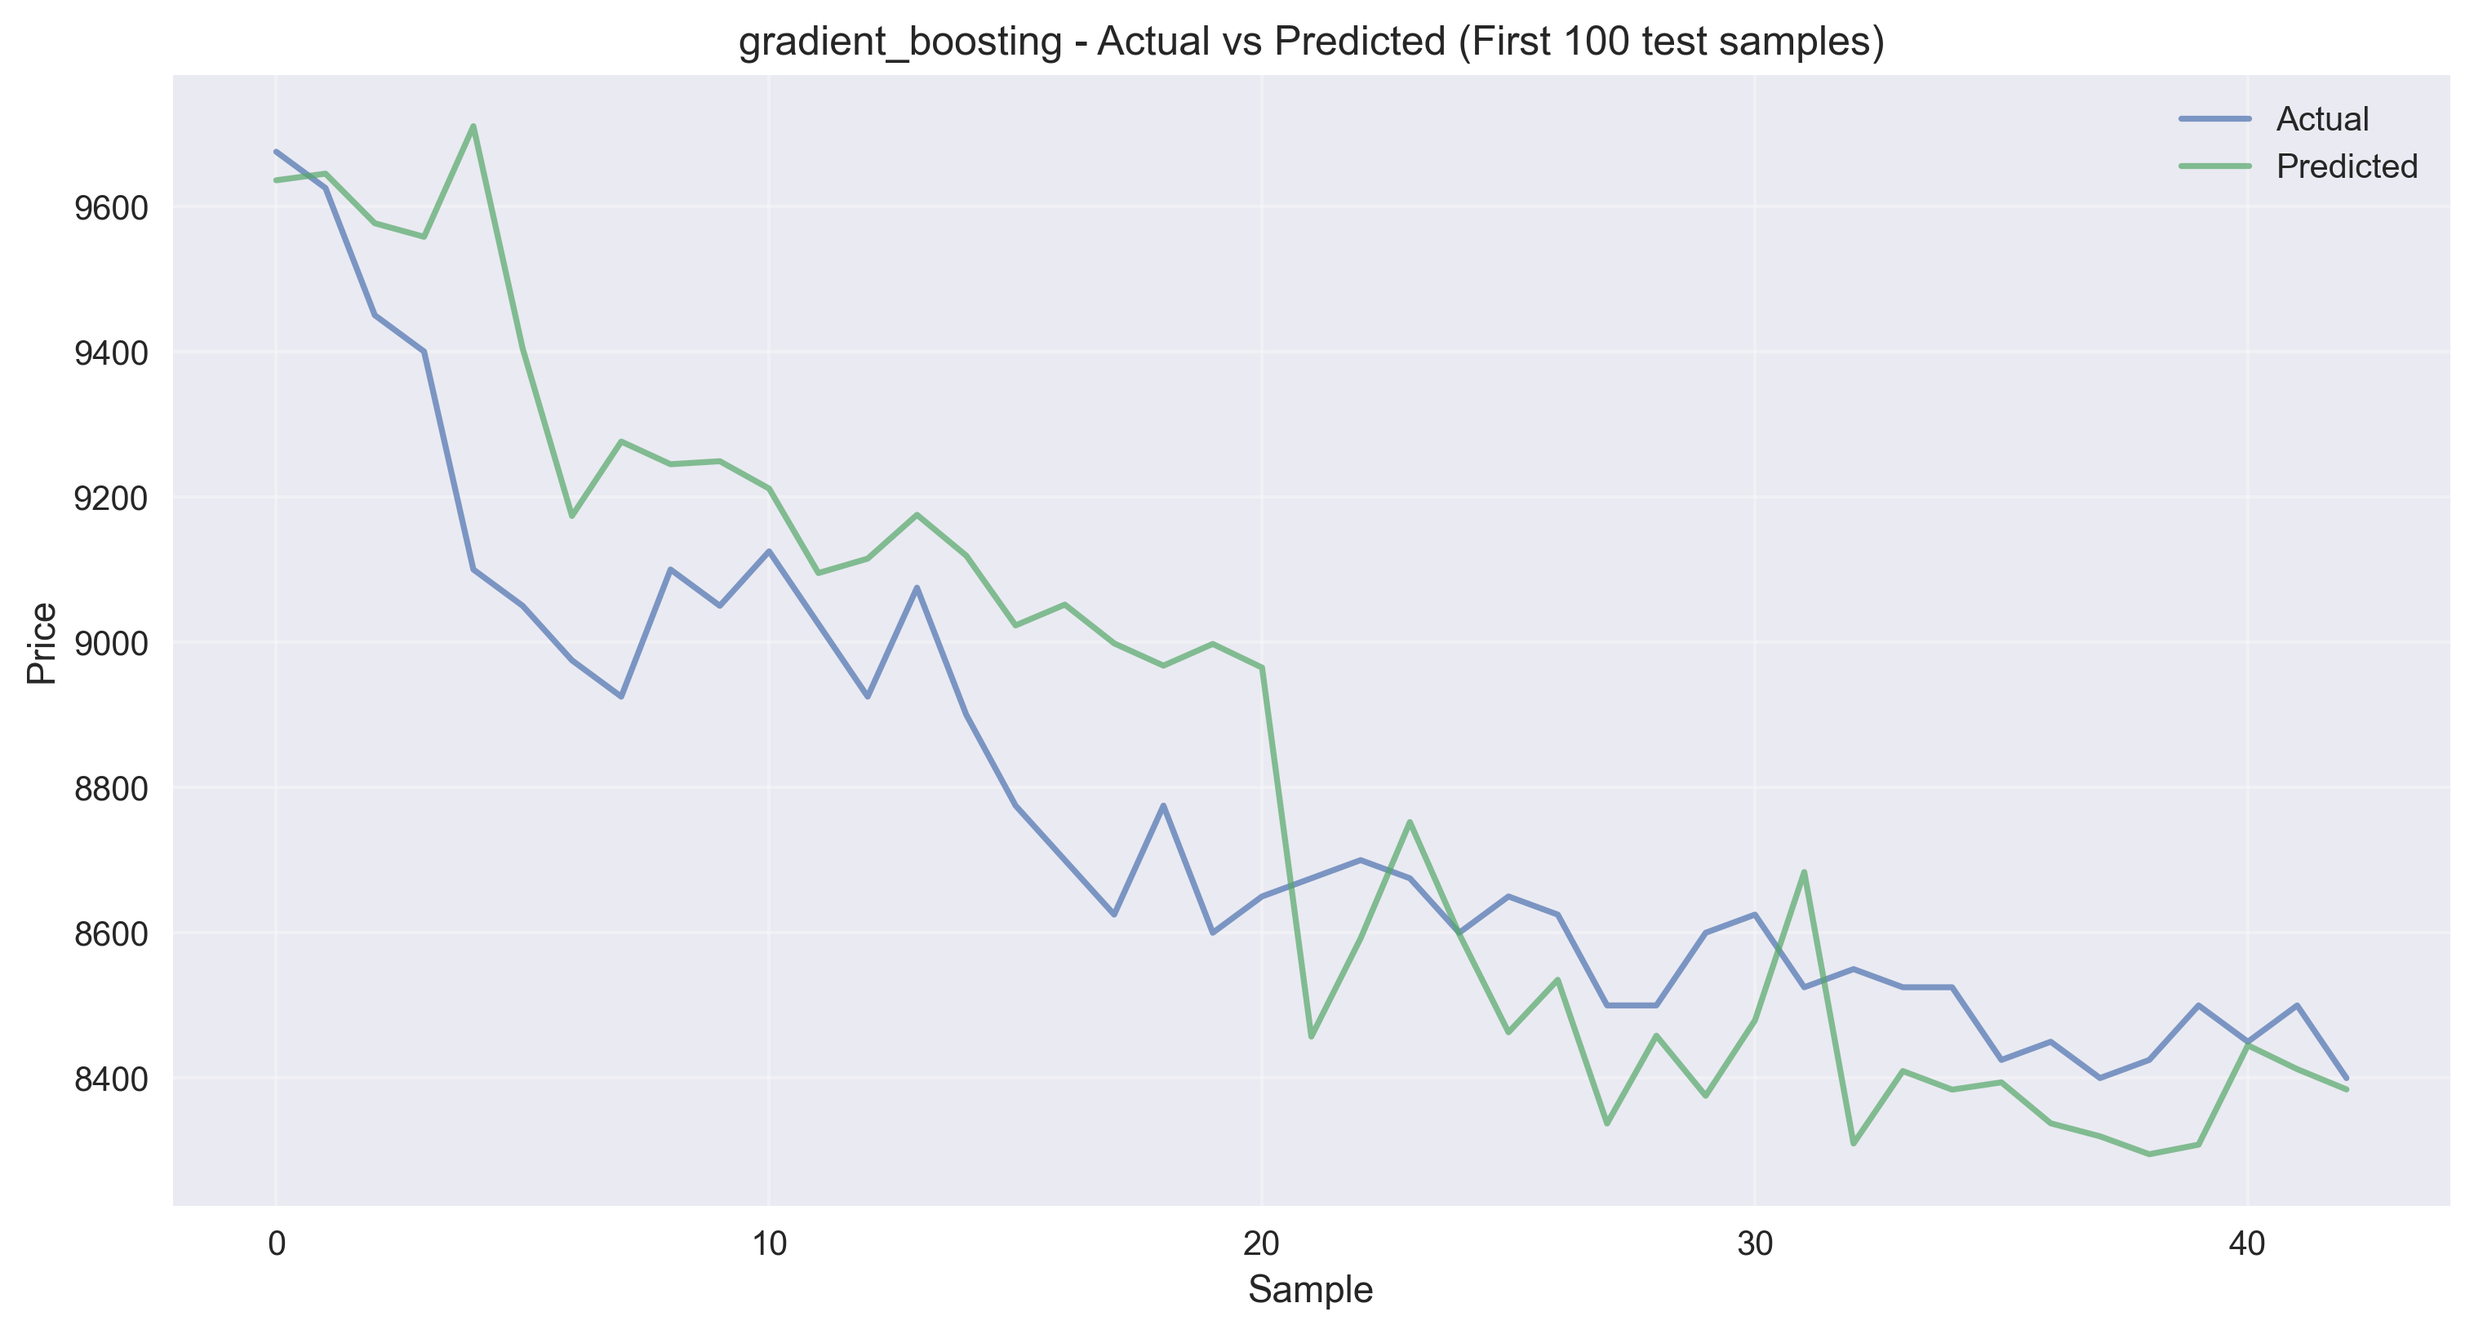
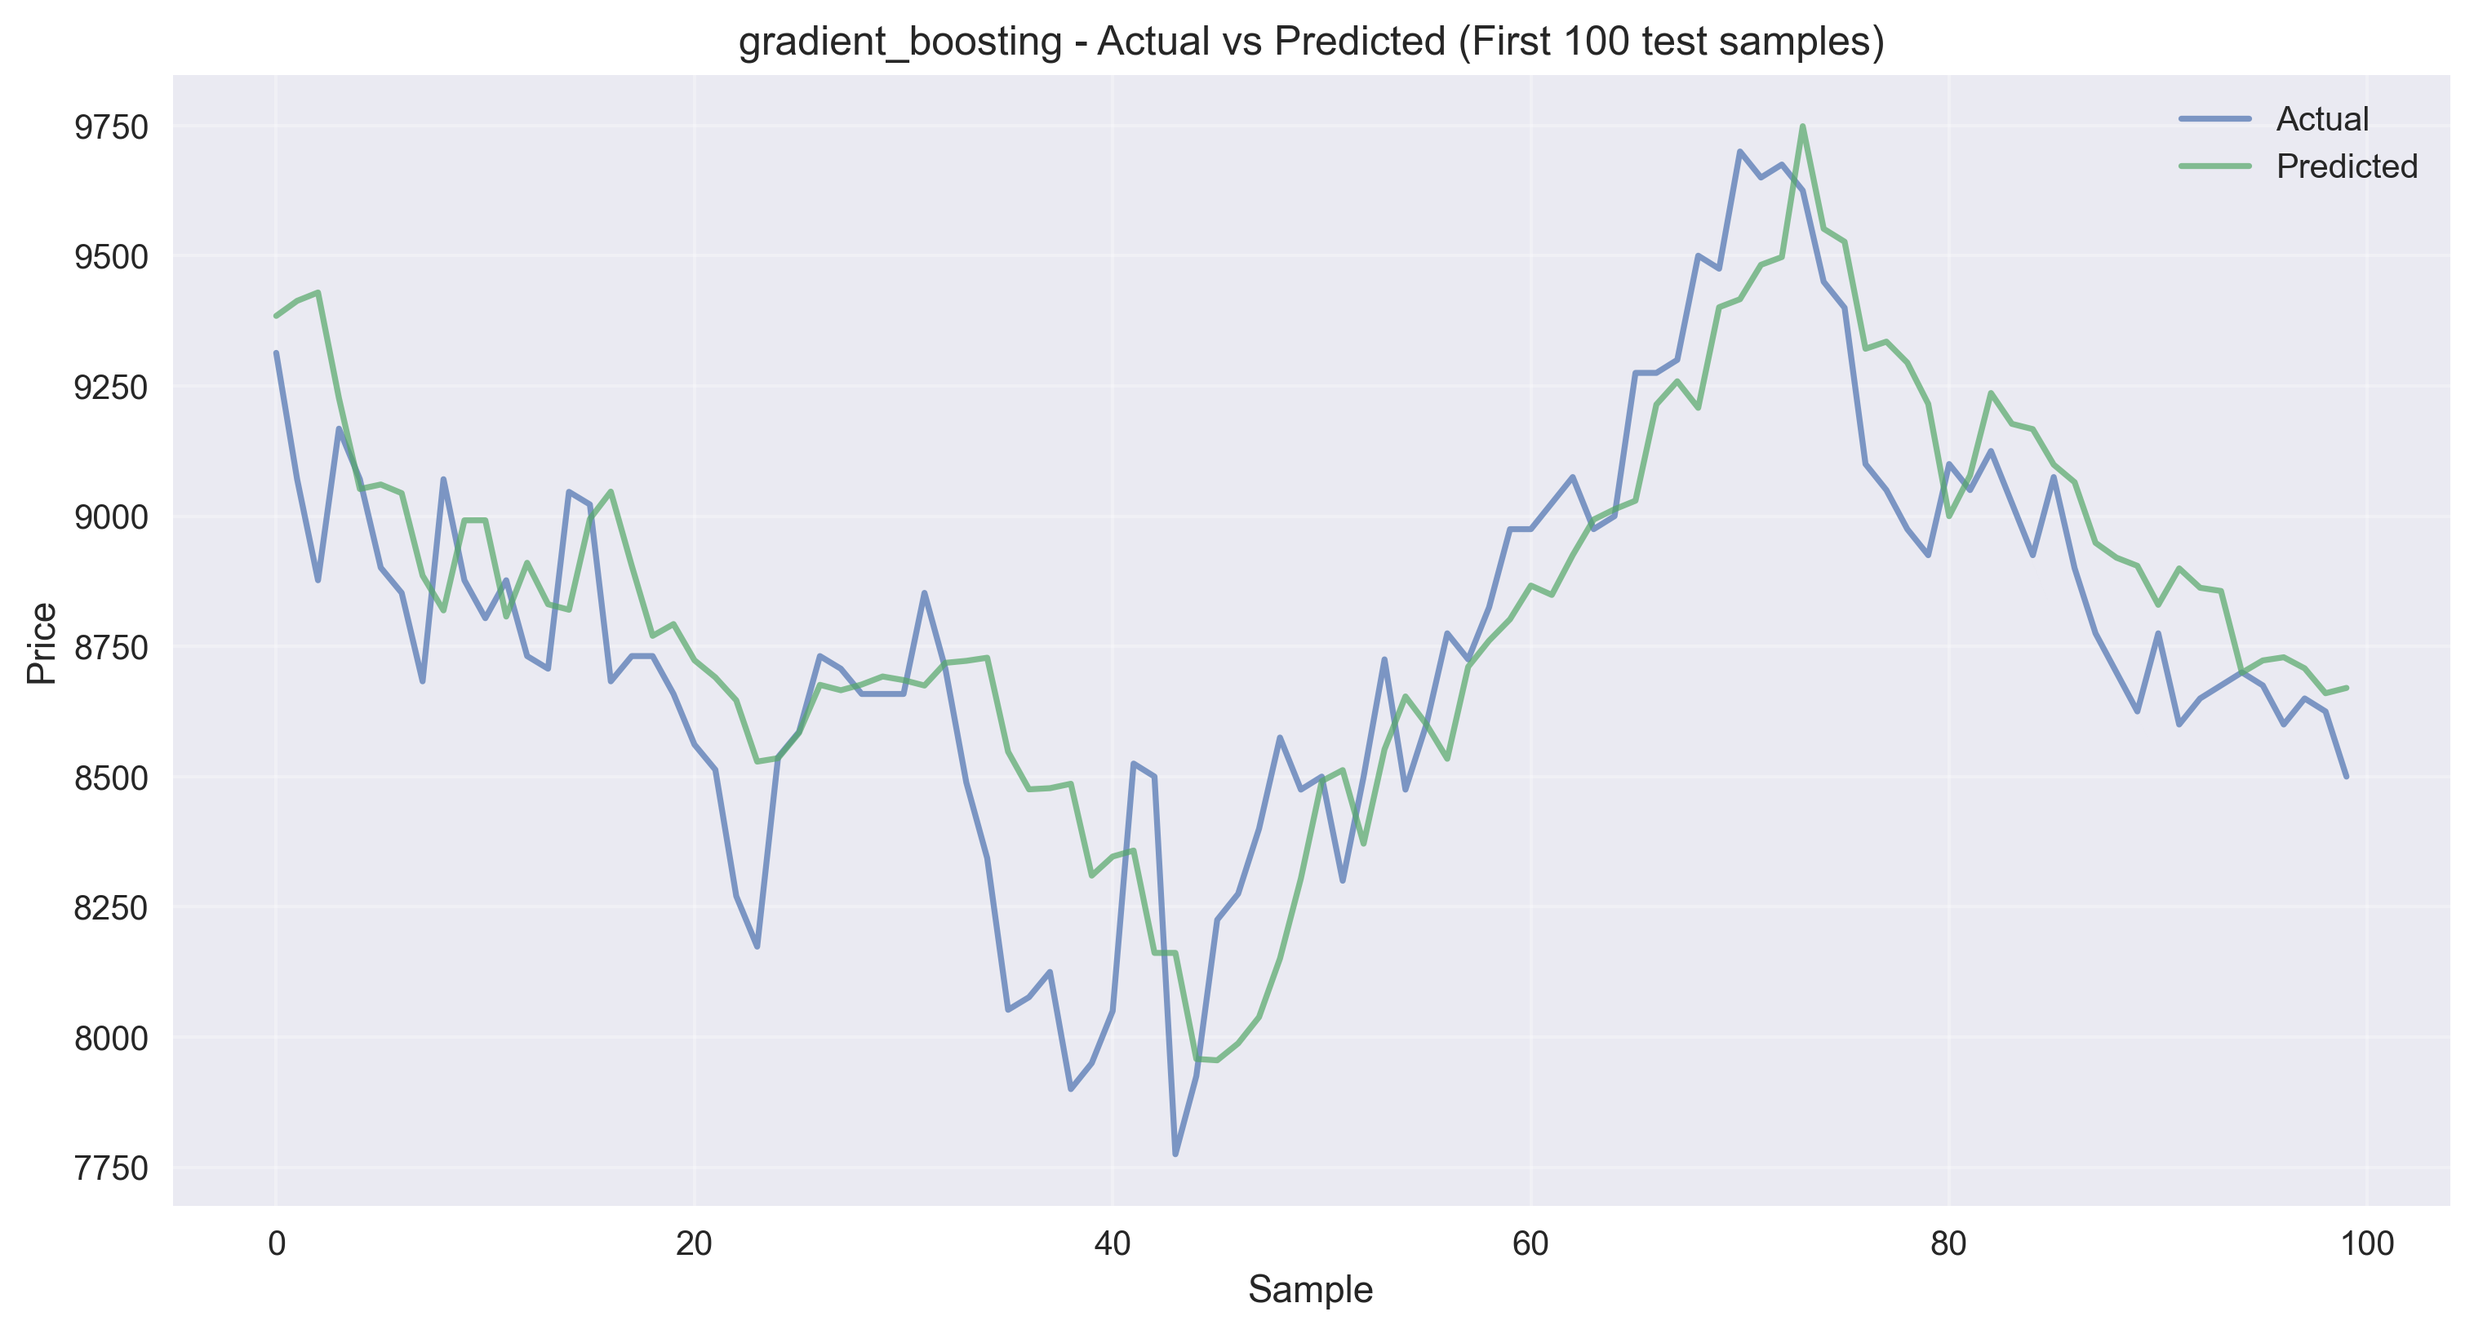
finishing up and adding snapshots

diff --git a/main.py b/main.py
@@ -178,25 +178,25 @@ class StockPriceRegressor:
         if TALIB_AVAILABLE:
             try:
                 # RSI
-                df['RSI'] = talib.RSI(df['Close'].values, timeperiod=14)
+                df['RSI'] = talib.RSI(df['Close'].values, timeperiod=14) # type: ignore
                 
                 # MACD
-                macd, macd_signal, macd_hist = talib.MACD(df['Close'].values)
+                macd, macd_signal, macd_hist = talib.MACD(df['Close'].values) # type: ignore
                 df['MACD'] = macd
                 df['MACD_Signal'] = macd_signal
                 df['MACD_Hist'] = macd_hist
                 
                 # Bollinger Bands
-                bb_upper, bb_middle, bb_lower = talib.BBANDS(df['Close'].values)
+                bb_upper, bb_middle, bb_lower = talib.BBANDS(df['Close'].values) # type: ignore
                 df['BB_Upper'] = bb_upper
                 df['BB_Lower'] = bb_lower
                 df['BB_Width'] = (bb_upper - bb_lower) / bb_middle
                 df['BB_Position'] = (df['Close'] - bb_lower) / (bb_upper - bb_lower)
                 
                 # Stochastic Oscillator
-                df['Stoch_K'], df['Stoch_D'] = talib.STOCH(df['High'].values, 
-                                                          df['Low'].values, 
-                                                          df['Close'].values)
+                df['Stoch_K'], df['Stoch_D'] = talib.STOCH(df['High'].values,  # type: ignore
+                                                          df['Low'].values,  # type: ignore
+                                                          df['Close'].values) # type: ignore
                 print("TA-Lib indicators added successfully")
             except Exception as e:
                 print(f"Error with TA-Lib indicators: {e}")
@@ -206,8 +206,8 @@ class StockPriceRegressor:
             
             # Simple RSI calculation
             delta = df['Close'].diff()
-            gain = (delta.where(delta > 0, 0)).rolling(window=14).mean()
-            loss = (-delta.where(delta < 0, 0)).rolling(window=14).mean()
+            gain = (delta.where(delta > 0, 0)).rolling(window=14).mean() # type: ignore
+            loss = (-delta.where(delta < 0, 0)).rolling(window=14).mean() # type: ignore
             rs = gain / loss
             df['RSI'] = 100 - (100 / (1 + rs))
             
@@ -408,16 +408,16 @@ class StockPriceRegressor:
                 
                 # Log model with appropriate MLflow integration
                 if model_name == 'xgboost' and XGB_AVAILABLE:
-                    mlflow.xgboost.log_model(model, name="model",signature=self.signature)
+                    mlflow.xgboost.log_model(model, name="model",signature=self.signature) # type: ignore
                 elif model_name == 'lightgbm' and LGB_AVAILABLE:
-                    mlflow.lightgbm.log_model(model, name="model",signature=self.signature)
+                    mlflow.lightgbm.log_model(model, name="model",signature=self.signature) # type: ignore
                 else:
-                    mlflow.sklearn.log_model(model, name="model",signature=self.signature)
+                    mlflow.sklearn.log_model(model, name="model",signature=self.signature) # type: ignore
                 
                 # Create and log prediction plot
                 os.makedirs('regressor_image', exist_ok=True)
                 plt.figure(figsize=(12, 6))
-                plt.plot(y_test.values[:100], label='Actual', alpha=0.7)
+                plt.plot(y_test.values[:100], label='Actual', alpha=0.7) # type: ignore
                 plt.plot(y_pred[:100], label='Predicted', alpha=0.7)
                 plt.title(f'{model_name} - Actual vs Predicted (First 100 test samples)')
                 plt.xlabel('Sample')
@@ -454,11 +454,11 @@ class StockPriceRegressor:
             
             best_model_obj = self.models[best_model]['model']
             if best_model == 'xgboost' and XGB_AVAILABLE:
-                mlflow.xgboost.log_model(best_model_obj, name="best_model", registered_model_name=f"{self.stock_symbol}_regressor",signature=self.signature)
+                mlflow.xgboost.log_model(best_model_obj, name="best_model", registered_model_name=f"{self.stock_symbol}_regressor",signature=self.signature) # type: ignore
             elif best_model == 'lightgbm' and LGB_AVAILABLE:
-                mlflow.lightgbm.log_model(best_model_obj, name="best_model", registered_model_name=f"{self.stock_symbol}_regressor",signature=self.signature)
+                mlflow.lightgbm.log_model(best_model_obj, name="best_model", registered_model_name=f"{self.stock_symbol}_regressor",signature=self.signature) # type: ignore
             else:
-                mlflow.sklearn.log_model(best_model_obj, name="best_model", registered_model_name=f"{self.stock_symbol}_regressor",signature=self.signature)
+                mlflow.sklearn.log_model(best_model_obj, name="best_model", registered_model_name=f"{self.stock_symbol}_regressor",signature=self.signature) # type: ignore
         
         return self.models, best_model
     
@@ -479,16 +479,16 @@ class StockPriceRegressor:
         model = self.models[model_name]['model']
         
         # Get the latest features
-        latest_features = self.features.iloc[-1:].copy()
+        latest_features = self.features.iloc[-1:].copy() # type: ignore
         
         #scaled the input
         latest_features_scaled = self.scaler.transform(latest_features)
         forecast = model.predict(latest_features_scaled)[0]
         
         #forecast tomorrow's price
-        current_price = self.data['Close'].iloc[-1]
-        today = self.data.iloc[-1].name.strftime('%Y-%m-%d')
-        forecast_date = (self.data.index[-1] + timedelta(days=1)).strftime('%Y-%m-%d')
+        current_price = self.data['Close'].iloc[-1] # type: ignore
+        today = self.data.iloc[-1].name.strftime('%Y-%m-%d') # type: ignore
+        forecast_date = (self.data.index[-1] + timedelta(days=1)).strftime('%Y-%m-%d') # type: ignore
         print(f"\n=== Forecast Results ===")
         print(f"Model used: {model_name}")
         print(f"Current price at {today}: {current_price:.2f}")
@@ -507,9 +507,9 @@ class StockPriceRegressor:
         print("="*60)
         
         print(f"\nData Summary:")
-        print(f"- Period: {self.data.index[0].date()} to {self.data.index[-1].date()}")
-        print(f"- Total samples: {len(self.data)}")
-        print(f"- Features used: {len(self.features.columns)}")
+        print(f"- Period: {self.data.index[0].date()} to {self.data.index[-1].date()}") # type: ignore
+        print(f"- Total samples: {len(self.data)}") # type: ignore
+        print(f"- Features used: {len(self.features.columns)}")# type: ignore
         
         print(f"\nModel Performance:")
         for model_name, results in self.models.items():
@@ -538,9 +538,9 @@ def run_regression():
     try:
         print("🎯 RUNNING REGRESSION PIPELINE")
         print("="*50)
-        
-        regressor = StockPriceRegressor(STOCK_SYMBOL, "stock_regression_forecasting")
-        regressor.load_data(period="2y",interval='1d')
+        today = datetime.now().strftime('%Y-%m-%d')
+        regressor = StockPriceRegressor(STOCK_SYMBOL, f"[{today}] stock_regression_forecasting")
+        regressor.load_data(period="5y",interval='1d')
         regressor.explore_data()
         regressor.engineer_features()
         regressor.train_models()

diff --git a/sample_run_results/console_report.md b/sample_run_results/console_report.md
@@ -1,0 +1,121 @@
+```bash
+🎯 RUNNING REGRESSION PIPELINE
+==================================================
+2025/07/29 18:31:55 INFO mlflow.tracking.fluent: Experiment with name '[2025-07-29] stock_regression_forecasting' does not exist. Creating a new experiment.
+Loading data for BBCA.JK...
+Data loaded successfully. Shape: (1200, 7)
+Date range: 2020-07-29 to 2025-07-29
+
+=== Data Exploration ===
+Data shape: (1200, 7)
+Missing values:
+Open            0
+High            0
+Low             0
+Close           0
+Volume          0
+Dividends       0
+Stock Splits    0
+dtype: int64
+
+Data types:
+Open            float64
+High            float64
+Low             float64
+Close           float64
+Volume            int64
+Dividends       float64
+Stock Splits    float64
+dtype: object
+
+Basic statistics:
+               Open          High           Low         Close        Volume    Dividends  Stock Splits
+count   1200.000000   1200.000000   1200.000000   1200.000000  1.200000e+03  1200.000000   1200.000000
+mean    7715.036679   7782.369203   7646.521941   7713.462568  8.837748e+07     0.855000      0.004167
+std     1450.905496   1460.669066   1446.464010   1452.523646  5.935710e+07    11.931287      0.144338
+min     4806.284981   4899.224194   4770.879567   4797.433105  1.065390e+07     0.000000      0.000000
+25%     6571.382128   6639.128476   6511.595372   6571.382324  5.702390e+07     0.000000      0.000000
+50%     7941.094616   8010.148217   7872.042878   7971.554932  7.626740e+07     0.000000      0.000000
+75%     8799.237718   8876.866162   8707.878660   8798.982422  1.017658e+08     0.000000      0.000000
+max    10522.147296  10570.414456  10401.480891  10570.414062  7.564316e+08   250.000000      5.000000
+
+=== Feature Engineering ===
+TA-Lib indicators added successfully
+Features created: 42
+Final dataset shape: (1150, 48)
+Feature columns: ['Dividends', 'Stock Splits', 'High_Low_Pct', 'Price_Change', 'MA_5', 'MA_5_ratio', 'MA_10', 'MA_10_ratio', 'MA_20', 'MA_20_ratio']...
+
+=== Training Models ===
+Training set size: 1035
+Test set size: 115
+
+=== Creating Baseline Model(s) ===
+Moving average RMSE: 205.7659
+
+Training linear_regression...
+linear_regression - RMSE: 164.6530, MAE: 125.8647, R²: 0.8146
+
+Training random_forest...
+random_forest - RMSE: 213.5445, MAE: 168.3006, R²: 0.6881
+
+Training gradient_boosting...
+gradient_boosting - RMSE: 207.0558, MAE: 161.6780, R²: 0.7068
+
+Training xgboost...
+xgboost - RMSE: 227.3087, MAE: 180.3070, R²: 0.6466
+
+Training lightgbm...
+lightgbm - RMSE: 213.5368, MAE: 166.5430, R²: 0.6881
+
+Best model: linear_regression (RMSE: 164.6530)
+Successfully registered model 'BBCA.JK_regressor'.
+Created version '1' of model 'BBCA.JK_regressor'.
+
+============================================================
+STOCK PRICE FORECASTING REPORT - BBCA.JK
+============================================================
+
+Data Summary:
+- Period: 2020-07-29 to 2025-07-29
+- Total samples: 1200
+- Features used: 42
+
+Model Performance:
+- LINEAR_REGRESSION:
+  * RMSE: 164.6530
+  * MAE: 125.8647
+  * R²: 0.8146
+- RANDOM_FOREST:
+  * RMSE: 213.5445
+  * MAE: 168.3006
+  * R²: 0.6881
+- GRADIENT_BOOSTING:
+  * RMSE: 207.0558
+  * MAE: 161.6780
+  * R²: 0.7068
+- XGBOOST:
+  * RMSE: 227.3087
+  * MAE: 180.3070
+  * R²: 0.6466
+- LIGHTGBM:
+  * RMSE: 213.5368
+  * MAE: 166.5430
+  * R²: 0.6881
+
+Best Model: LINEAR_REGRESSION
+RMSE: 164.6530
+
+=== Forecast Results ===
+Model used: linear_regression
+Current price at 2025-07-29: 8400.00
+Predicted next day price at 2025-07-30: 8474.33
+Predicted change: 74.33 (0.88%)
+
+================================================================================
+✅ Regression pipeline completed!
+================================================================================
+🌐 Check MLflow UI for detailed experiment tracking:
+   Run: mlflow server --host 127.0.0.1 --port 8080
+   Then visit: http://localhost:8080
+================================================================================
+```

diff --git a/readme.md b/readme.md
@@ -17,7 +17,6 @@ Develop a machine learning model to forecast the closing price of Indonesian sto
 
 ## 3. Quick Start
 
-
 ### 3.1 Installation
 
 ```bash
@@ -54,7 +53,7 @@ pip install TA-Lib
 
 ```bash
 # The script will automatically detect available packages and adapt
-python stock_forecasting.py
+python main.py
 ```
 
 ### 3.3 View Results in MLflow
@@ -70,10 +69,12 @@ mlflow server --host 127.0.0.1 --port 8080
 ## 4. Project Structure
 
 ```
-├── stock_forecasting.py      # Main pipeline script
+├── main.py      # Main pipeline script
+├── venv/        # virtual environment
 ├── requirements.txt          # Python dependencies
 ├── README.md                # This file
-├── data_exploration.png     # Generated data visualization
+├── data_exploration.png     # Generated data exploration viz
+├── regressor_image          # Generated Test Data Prediction Viz
 └── mlruns/                  # MLflow experiments directory
 ```
 
@@ -178,47 +179,52 @@ The pipeline generates:
 
 ## 12. Results
 
+Full results are in `sample_run_results/console_report.md`.
+
 ```
 ============================================================
 STOCK PRICE FORECASTING REPORT - BBCA.JK
 ============================================================
 
 Data Summary:
-- Period: 2023-07-31 to 2025-07-29
-- Total samples: 473
+- Period: 2020-07-29 to 2025-07-29
+- Total samples: 1200
 - Features used: 42
 
 Model Performance:
 - LINEAR_REGRESSION:
-  * RMSE: 174.5455
-  * MAE: 139.2851
-  * R²: 0.7162
+  * RMSE: 164.6530
+  * MAE: 125.8647
+  * R²: 0.8146
 - RANDOM_FOREST:
-  * RMSE: 155.8595
-  * MAE: 123.9216
-  * R²: 0.7738
+  * RMSE: 213.5445
+  * MAE: 168.3006
+  * R²: 0.6881
 - GRADIENT_BOOSTING:
-  * RMSE: 209.9020
-  * MAE: 169.9692
-  * R²: 0.5896
+  * RMSE: 207.0558
+  * MAE: 161.6780
+  * R²: 0.7068
 - XGBOOST:
-  * RMSE: 209.5710
-  * MAE: 164.5537
-  * R²: 0.5909
+  * RMSE: 227.3087
+  * MAE: 180.3070
+  * R²: 0.6466
 - LIGHTGBM:
-  * RMSE: 193.2898
-  * MAE: 160.7454
-  * R²: 0.6520
+  * RMSE: 213.5368
+  * MAE: 166.5430
+  * R²: 0.6881
 
-Best Model: RANDOM_FOREST
-RMSE: 155.8595
+Best Model: LINEAR_REGRESSION
+RMSE: 164.6530
 
 === Forecast Results ===
-Model used: random_forest
+Model used: linear_regression
 Current price at 2025-07-29: 8400.00
-Predicted next day price at 2025-07-30: 8374.44
-Predicted change: -25.56 (-0.30%)
+Predicted next day price at 2025-07-30: 8474.33
+Predicted change: 74.33 (0.88%)
 ```
+
+MLFlow Snapshot
+![mlflow snapshot](sample_run_results/mlflow_snapshot.png)
 
 ## 13. Advanced Usage
 
